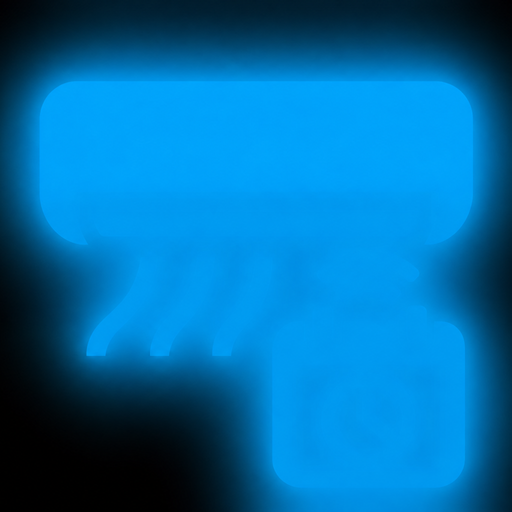
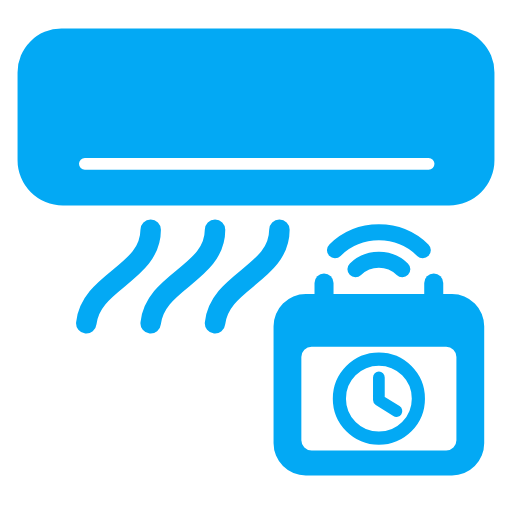
Icône redessinée : nette, fond transparent (v1.10.1)
Même dessin (split, flux d'air, ondes, calendrier avec horloge), redessiné
en vectoriel puis rendu en 256 et 512 px sur fond transparent : plus de
halo flou à petite taille.

diff --git a/custom_components/split_scheduler/frontend/split-scheduler-card.js b/custom_components/split_scheduler/frontend/split-scheduler-card.js
@@ -22,7 +22,7 @@
  *       chart: [ambient, setpoint, outdoor]  # courbes du jour (au choix)
  */
 
-const CARD_VERSION = "1.10.0";
+const CARD_VERSION = "1.10.1";
 const ICON_URL = new URL("icon.png", import.meta.url).href;
 
 const GROUP_DEFAULTS = {
@@ -1804,7 +1804,7 @@ const CARD_CSS = `
   .wrap { display: flex; flex-direction: column; gap: 16px; padding: 8px; }
   .head { display: flex; flex-wrap: wrap; align-items: center; justify-content: space-between; gap: 12px 16px; }
   .title { display: flex; align-items: center; gap: 12px; }
-  .title img { width: 44px; height: 44px; border-radius: 10px; }
+  .title img { width: 44px; height: 44px; }
   h1 { margin: 0; font-size: 24px; font-weight: 500; color: var(--primary-text-color); }
   h2 { margin: 0; font-size: 19px; font-weight: 500; color: var(--primary-text-color); }
   .global { display: flex; flex-direction: column; gap: 6px; }
